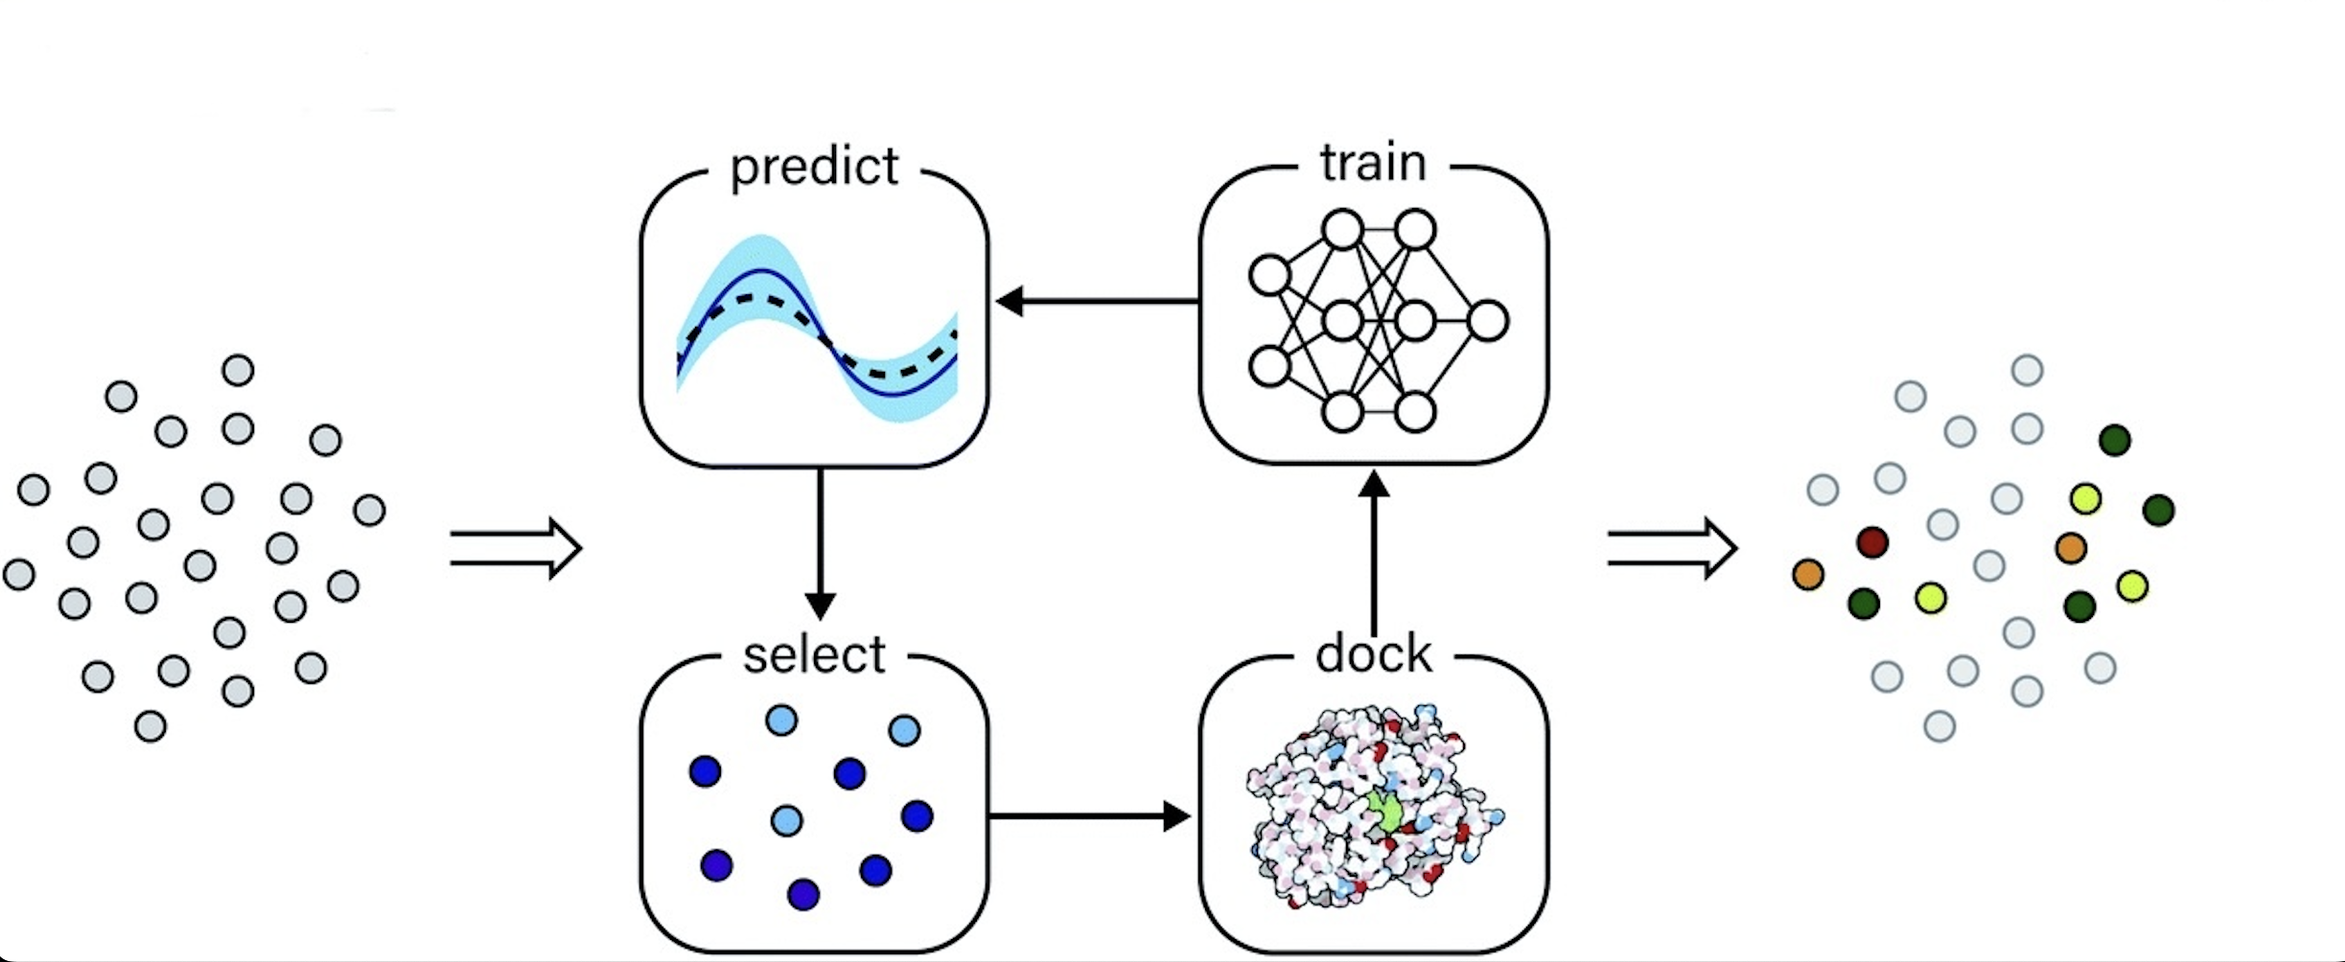
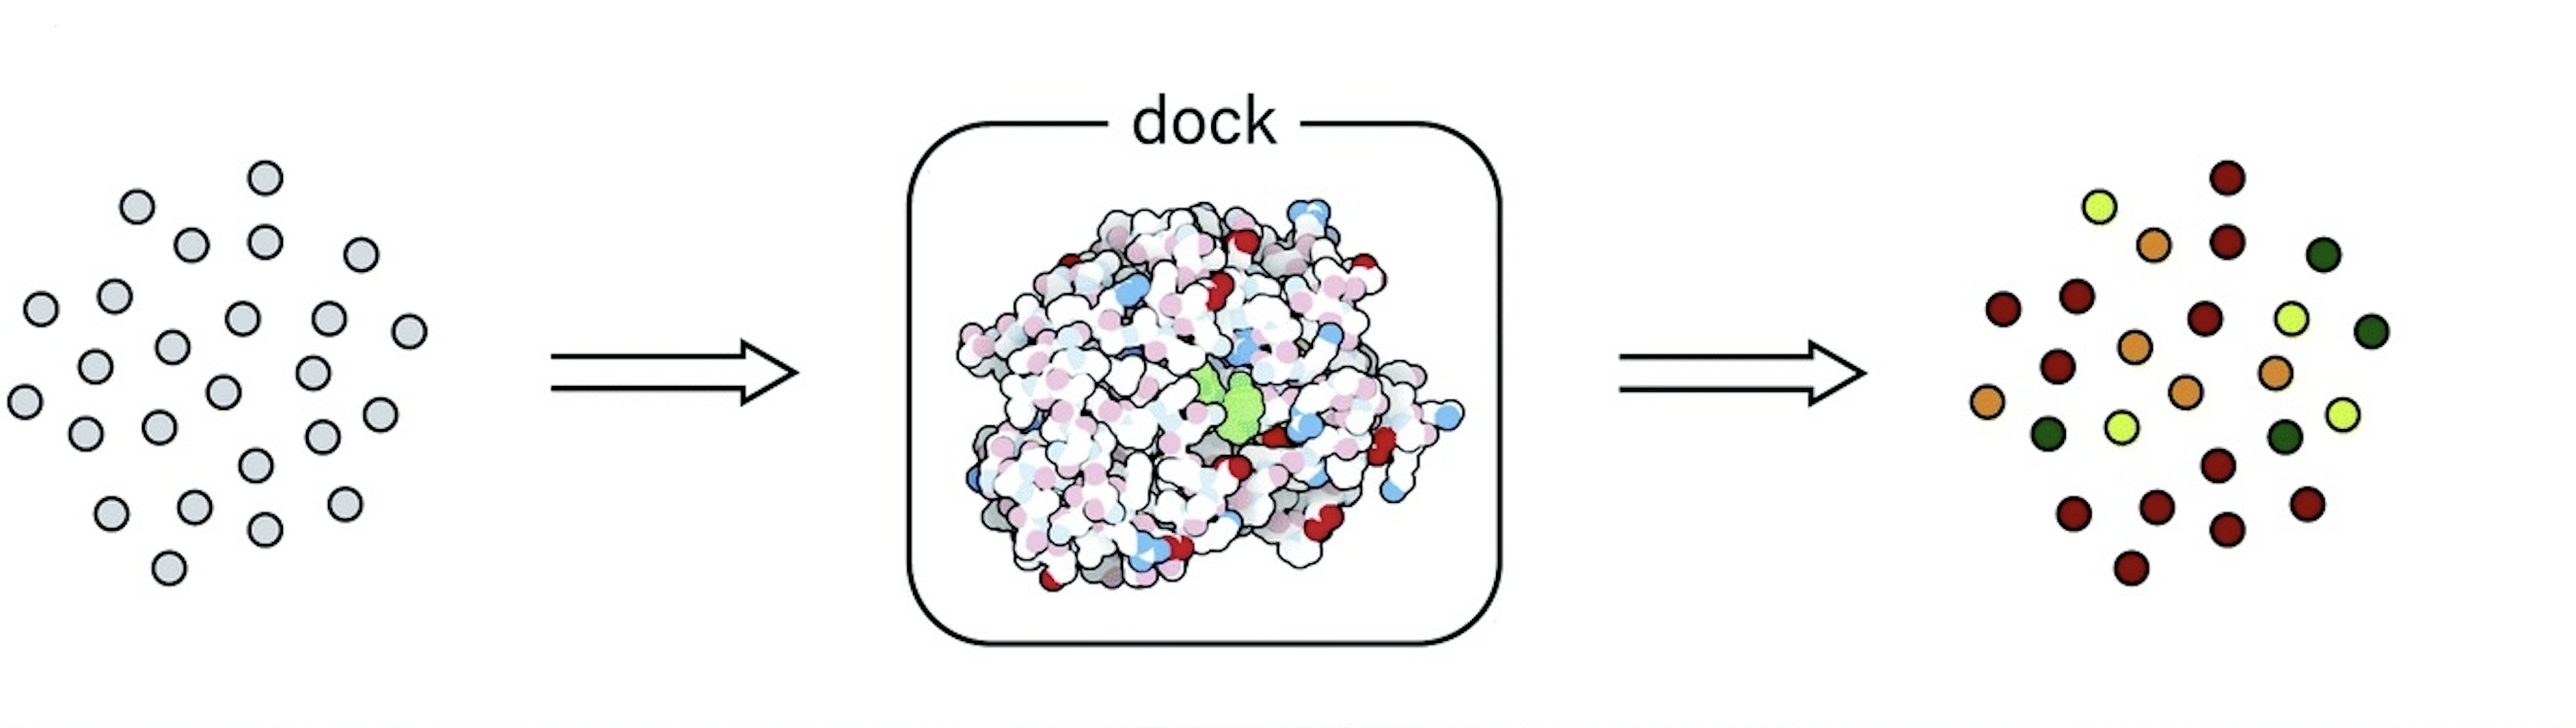
update images

diff --git a/public/index.html b/public/index.html
@@ -54,7 +54,8 @@
 </li>
 </ul>
 <span class="fragment">
-  <img src="images/enamine1.png" width="60%">
+    <figure style="display: flex; flex-direction: column; align-items: center; width: 80%; margin-top: -30px; margin-left: 100px">
+    <img src="images/vs.png">
 </span>
 </section>
 
@@ -227,7 +228,7 @@
     <li class="fragment">Surrogate model (selection model): Gaussian Process, Neural net, Random forest</li>
     <li class="fragment">Acquisition function: UCB, Greedy, Thompson sampling</li>
   </ul>
-  <img src="images/vs.png" alt="Active Virtual Screening Diagram" style="width: 80%;" class="fragment">
+  <img src="images/avs.png" alt="Active Virtual Screening Diagram" style="width: 80%;" class="fragment">
 </section>
 
 <section data-noprocess data-shortcode-slide

diff --git a/content/_index.md b/content/_index.md
@@ -26,7 +26,8 @@ src = "images/sail-logo.jpg"
   <span class="fragment">For modern libraries, it is feasible scaling up to billions or even trillions of compounds enhances the reach and impact of virtual screening.</span>
 
 <span class="fragment">
-  <img src="images/enamine1.png" width="60%">
+    <figure style="display: flex; flex-direction: column; align-items: center; width: 80%; margin-top: -30px; margin-left: 100px">
+    <img src="images/vs.png">
 </span>
 
 ---
@@ -186,7 +187,7 @@ src = "images/sail-logo.jpg"
     <li class="fragment">Surrogate model (selection model): Gaussian Process, Neural net, Random forest</li>
     <li class="fragment">Acquisition function: UCB, Greedy, Thompson sampling</li>
   </ul>
-  <img src="images/vs.png" alt="Active Virtual Screening Diagram" style="width: 80%;" class="fragment">
+  <img src="images/avs.png" alt="Active Virtual Screening Diagram" style="width: 80%;" class="fragment">
 
 ---
 {{< slide auto-animate="" >}}
